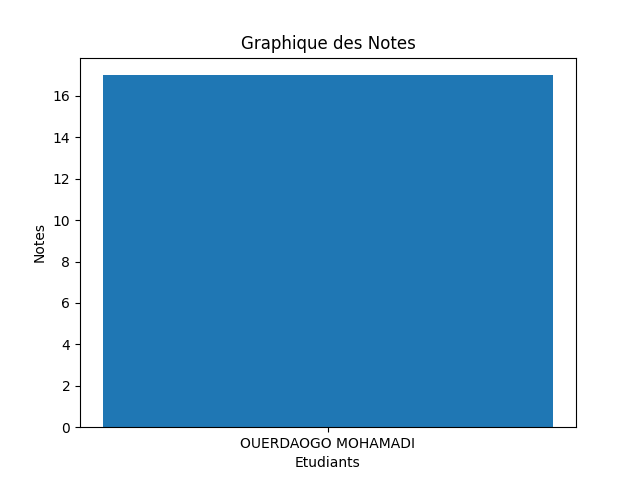
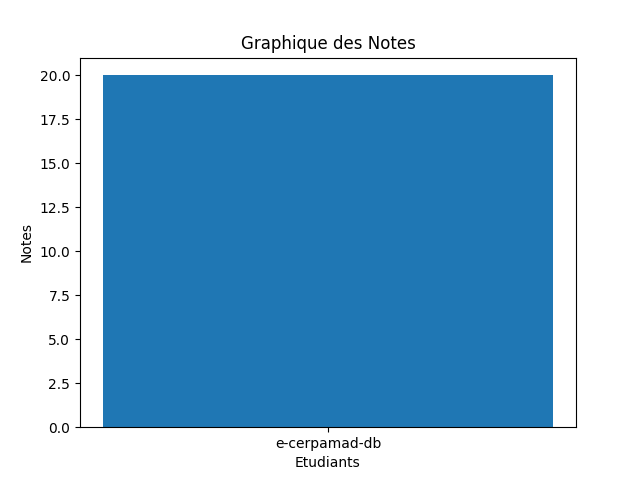
mise à jour

diff --git a/templates/register.html b/templates/register.html
@@ -2,38 +2,39 @@
 <html lang="fr">
 <head>
 <meta charset="UTF-8">
-<title>Connexion | E-CERPAMAD</title>
+<title>Inscription | E-CERPAMAD</title>
 <meta name="viewport" content="width=device-width, initial-scale=1.0">
 
 <style>
 body{
     margin:0;
     font-family:Arial, Helvetica, sans-serif;
-    background:linear-gradient(135deg,#0f2027,#203a43,#2c5364);
+    background:linear-gradient(135deg,#1e3c72,#2a5298);
     display:flex;
     justify-content:center;
     align-items:center;
-    height:100vh;
+    min-height:100vh;
 }
 
 .card{
     background:white;
-    padding:40px;
-    width:350px;
+    padding:30px;
+    width:400px;
     border-radius:12px;
     box-shadow:0 15px 35px rgba(0,0,0,0.3);
     text-align:center;
 }
 
 .card h2{
-    color:#2c5364;
-    margin-bottom:20px;
+    color:#2a5298;
+    margin-bottom:15px;
 }
 
-.card input{
+.card input,
+.card select{
     width:100%;
-    padding:12px;
-    margin:10px 0;
+    padding:10px;
+    margin:8px 0;
     border-radius:8px;
     border:1px solid #ccc;
 }
@@ -43,7 +44,7 @@ body{
     padding:12px;
     border:none;
     border-radius:8px;
-    background:#2c5364;
+    background:#2a5298;
     color:white;
     font-size:16px;
     cursor:pointer;
@@ -51,12 +52,12 @@ body{
 }
 
 .card button:hover{
-    background:#203a43;
+    background:#1e3c72;
 }
 
 .logo{
-    width:70px;
-    margin-bottom:15px;
+    width:60px;
+    margin-bottom:10px;
 }
 </style>
 </head>
@@ -66,15 +67,38 @@ body{
 <div class="card">
 <img src="{{ url_for('static', filename='logo.png') }}" class="logo">
 
-<h2>Connexion</h2>
+<h2>Inscription</h2>
 
 <form method="POST">
+
+<input type="text" name="nom" placeholder="Nom" required>
+<input type="text" name="prenom" placeholder="Prénom" required>
 <input type="email" name="email" placeholder="Email" required>
+
+<input type="text" name="filiere" placeholder="Filière" required>
+
+<select name="niveau" required>
+<option value="">Niveau</option>
+<option>L1</option>
+<option>L2</option>
+<option>L3</option>
+<option>M1</option>
+<option>M2</option>
+</select>
+
+<select name="sexe" required>
+<option value="">Sexe</option>
+<option value="Homme">Homme</option>
+<option value="Femme">Femme</option>
+</select>
+
 <input type="password" name="password" placeholder="Mot de passe" required>
-<button type="submit">Se connecter</button>
+
+<button type="submit">Créer le compte</button>
+
 </form>
 
-<p><a href="/register">Créer un compte</a></p>
+<p><a href="/login">Déjà un compte ? Connexion</a></p>
 
 </div>
 

diff --git a/app.py b/app.py
@@ -1,80 +1,192 @@
 from flask import Flask, render_template, request, redirect, session, send_file
 import sqlite3
+import random
+import smtplib
+from email.mime.text import MIMEText
+from werkzeug.security import generate_password_hash, check_password_hash
 import matplotlib.pyplot as plt
 from reportlab.platypus import SimpleDocTemplate, Paragraph, Spacer
 from reportlab.lib.styles import ParagraphStyle
 from reportlab.lib import colors
 from reportlab.lib.units import inch
 from reportlab.lib.pagesizes import A4
-import os
 
 app = Flask(__name__)
-app.secret_key = "supersecretkey"
+app.config['SECRET_KEY'] = "supersecret"
 
-# -------- DATABASE INIT --------
+# ---------------- DATABASE ----------------
 def init_db():
     conn = sqlite3.connect("database.db")
-    cursor = conn.cursor()
-    cursor.execute("""
+    c = conn.cursor()
+
+    c.execute("""
         CREATE TABLE IF NOT EXISTS students (
             id INTEGER PRIMARY KEY AUTOINCREMENT,
             name TEXT,
             note INTEGER
         )
     """)
+
+    c.execute("""
+        CREATE TABLE IF NOT EXISTS users (
+            id INTEGER PRIMARY KEY AUTOINCREMENT,
+            nom TEXT,
+            prenom TEXT,
+            email TEXT UNIQUE,
+            password TEXT,
+            role TEXT,
+            verified INTEGER DEFAULT 0,
+            code TEXT
+        )
+    """)
+
     conn.commit()
     conn.close()
 
 init_db()
 
-# -------- HOME --------
-@app.route("/")
-def home():
-    if "admin" in session:
-        conn = sqlite3.connect("database.db")
-        cursor = conn.cursor()
-        cursor.execute("SELECT * FROM students")
-        students = cursor.fetchall()
-        conn.close()
-        return render_template("dashboard.html", students=students)
-    return redirect("/login")
+# ---------------- EMAIL FUNCTION ----------------
+def send_code(email, code):
+    sender = "tonemail@gmail.com"
+    password = "mot_de_passe_application"
 
-# -------- LOGIN --------
+    message = MIMEText(f"Votre code de verification est : {code}")
+    message["Subject"] = "Verification E-CERPAMAD"
+    message["From"] = sender
+    message["To"] = email
+
+    server = smtplib.SMTP("smtp.gmail.com", 587)
+    server.starttls()
+    server.login(sender, password)
+    server.sendmail(sender, email, message.as_string())
+    server.quit()
+
+# ---------------- REGISTER ----------------
+@app.route("/register", methods=["GET", "POST"])
+def register():
+    if request.method == "POST":
+        nom = request.form["nom"]
+        prenom = request.form["prenom"]
+        email = request.form["email"]
+        password = generate_password_hash(request.form["password"])
+
+        conn = sqlite3.connect("database.db")
+        c = conn.cursor()
+
+        # Limite à 4 admins
+        c.execute("SELECT COUNT(*) FROM users WHERE role='admin'")
+        admin_count = c.fetchone()[0]
+
+        if admin_count < 4:
+            role = "admin"
+        else:
+            role = "etudiant"
+
+        code = str(random.randint(100000, 999999))
+
+        try:
+            c.execute("""
+                INSERT INTO users (nom, prenom, email, password, role, code)
+                VALUES (?, ?, ?, ?, ?, ?)
+            """, (nom, prenom, email, password, role, code))
+
+            conn.commit()
+            conn.close()
+
+            send_code(email, code)
+            return redirect(f"/verify/{email}")
+
+        except:
+            return "Email déjà utilisé ❌"
+
+    return render_template("register.html")
+
+# ---------------- VERIFY ----------------
+@app.route("/verify/<email>", methods=["GET", "POST"])
+def verify(email):
+    conn = sqlite3.connect("database.db")
+    c = conn.cursor()
+
+    if request.method == "POST":
+        code = request.form["code"]
+
+        c.execute("SELECT code FROM users WHERE email=?", (email,))
+        db_code = c.fetchone()[0]
+
+        if code == db_code:
+            c.execute("UPDATE users SET verified=1 WHERE email=?", (email,))
+            conn.commit()
+            conn.close()
+            return redirect("/login")
+        else:
+            return "Code incorrect ❌"
+
+    conn.close()
+    return render_template("verify.html", email=email)
+
+# ---------------- LOGIN ----------------
 @app.route("/login", methods=["GET", "POST"])
 def login():
     if request.method == "POST":
-        if request.form["username"] == "admin" and request.form["password"] == "1234":
-            session["admin"] = "admin"
+        email = request.form["email"]
+        password = request.form["password"]
+
+        conn = sqlite3.connect("database.db")
+        c = conn.cursor()
+        c.execute("SELECT password, role, verified FROM users WHERE email=?", (email,))
+        user = c.fetchone()
+        conn.close()
+
+        if user and check_password_hash(user[0], password):
+            if user[2] == 0:
+                return "Veuillez verifier votre email ❌"
+
+            session["user"] = email
+            session["role"] = user[1]
             return redirect("/")
         else:
             return "Identifiants incorrects ❌"
+
     return render_template("login.html")
 
-# -------- LOGOUT --------
-@app.route("/logout")
-def logout():
-    session.pop("admin", None)
-    return redirect("/login")
+# ---------------- DASHBOARD ----------------
+@app.route("/")
+def dashboard():
+    if "user" not in session:
+        return redirect("/login")
 
-# -------- ADD STUDENT --------
+    conn = sqlite3.connect("database.db")
+    c = conn.cursor()
+    c.execute("SELECT * FROM students")
+    students = c.fetchall()
+    conn.close()
+
+    return render_template("dashboard.html", students=students)
+
+# ---------------- ADD STUDENT ----------------
 @app.route("/add", methods=["POST"])
 def add():
+    if session.get("role") != "admin":
+        return "Accès refusé ❌"
+
     name = request.form["name"]
     note = request.form["note"]
+
     conn = sqlite3.connect("database.db")
-    cursor = conn.cursor()
-    cursor.execute("INSERT INTO students (name, note) VALUES (?, ?)", (name, note))
+    c = conn.cursor()
+    c.execute("INSERT INTO students (name, note) VALUES (?, ?)", (name, note))
     conn.commit()
     conn.close()
+
     return redirect("/")
 
-# -------- GRAPH --------
+# ---------------- GRAPH ----------------
 @app.route("/graph")
 def graph():
     conn = sqlite3.connect("database.db")
-    cursor = conn.cursor()
-    cursor.execute("SELECT name, note FROM students")
-    data = cursor.fetchall()
+    c = conn.cursor()
+    c.execute("SELECT name, note FROM students")
+    data = c.fetchall()
     conn.close()
 
     names = [x[0] for x in data]
@@ -82,32 +194,25 @@ def graph():
 
     plt.figure()
     plt.bar(names, notes)
-    plt.xlabel("Etudiants")
-    plt.ylabel("Notes")
-    plt.title("Graphique des Notes")
     plt.savefig("static/graph.png")
     plt.close()
 
     return redirect("/")
 
-# -------- PDF --------
+# ---------------- PDF ----------------
 @app.route("/pdf")
-def generate_pdf():
+def pdf():
     conn = sqlite3.connect("database.db")
-    cursor = conn.cursor()
-    cursor.execute("SELECT name, note FROM students")
-    data = cursor.fetchall()
+    c = conn.cursor()
+    c.execute("SELECT name, note FROM students")
+    data = c.fetchall()
     conn.close()
 
     file_path = "resultats.pdf"
     doc = SimpleDocTemplate(file_path, pagesize=A4)
     elements = []
 
-    style = ParagraphStyle(
-        name='Normal',
-        fontSize=12,
-        textColor=colors.black
-    )
+    style = ParagraphStyle(name='Normal', fontSize=12, textColor=colors.black)
 
     elements.append(Paragraph("Resultats des Etudiants", style))
     elements.append(Spacer(1, 0.5 * inch))
@@ -119,6 +224,12 @@ def generate_pdf():
     doc.build(elements)
 
     return send_file(file_path, as_attachment=True)
+
+# ---------------- LOGOUT ----------------
+@app.route("/logout")
+def logout():
+    session.clear()
+    return redirect("/login")
 
 if __name__ == "__main__":
     app.run(debug=True)
